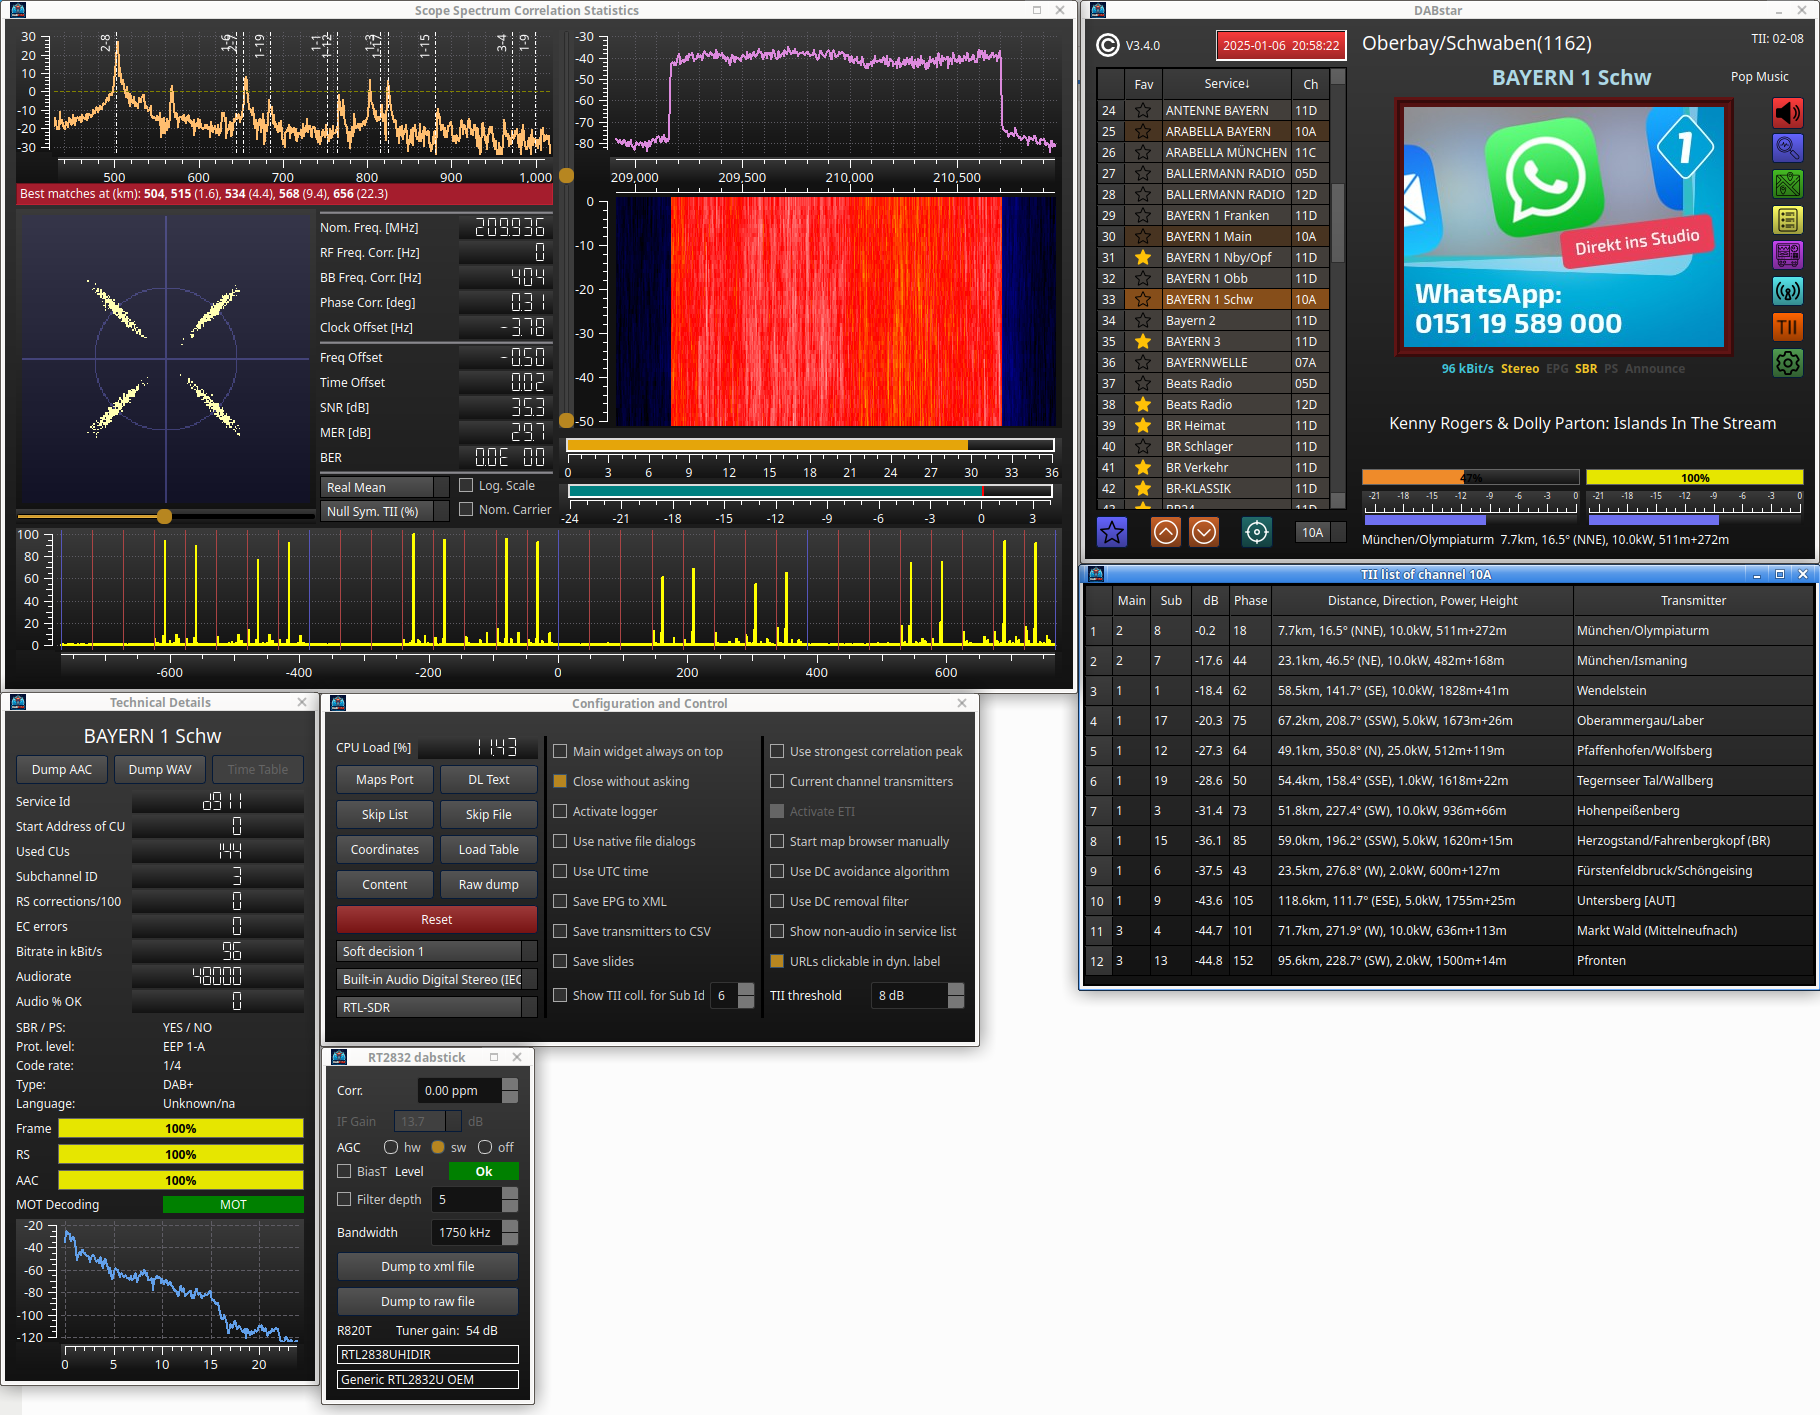
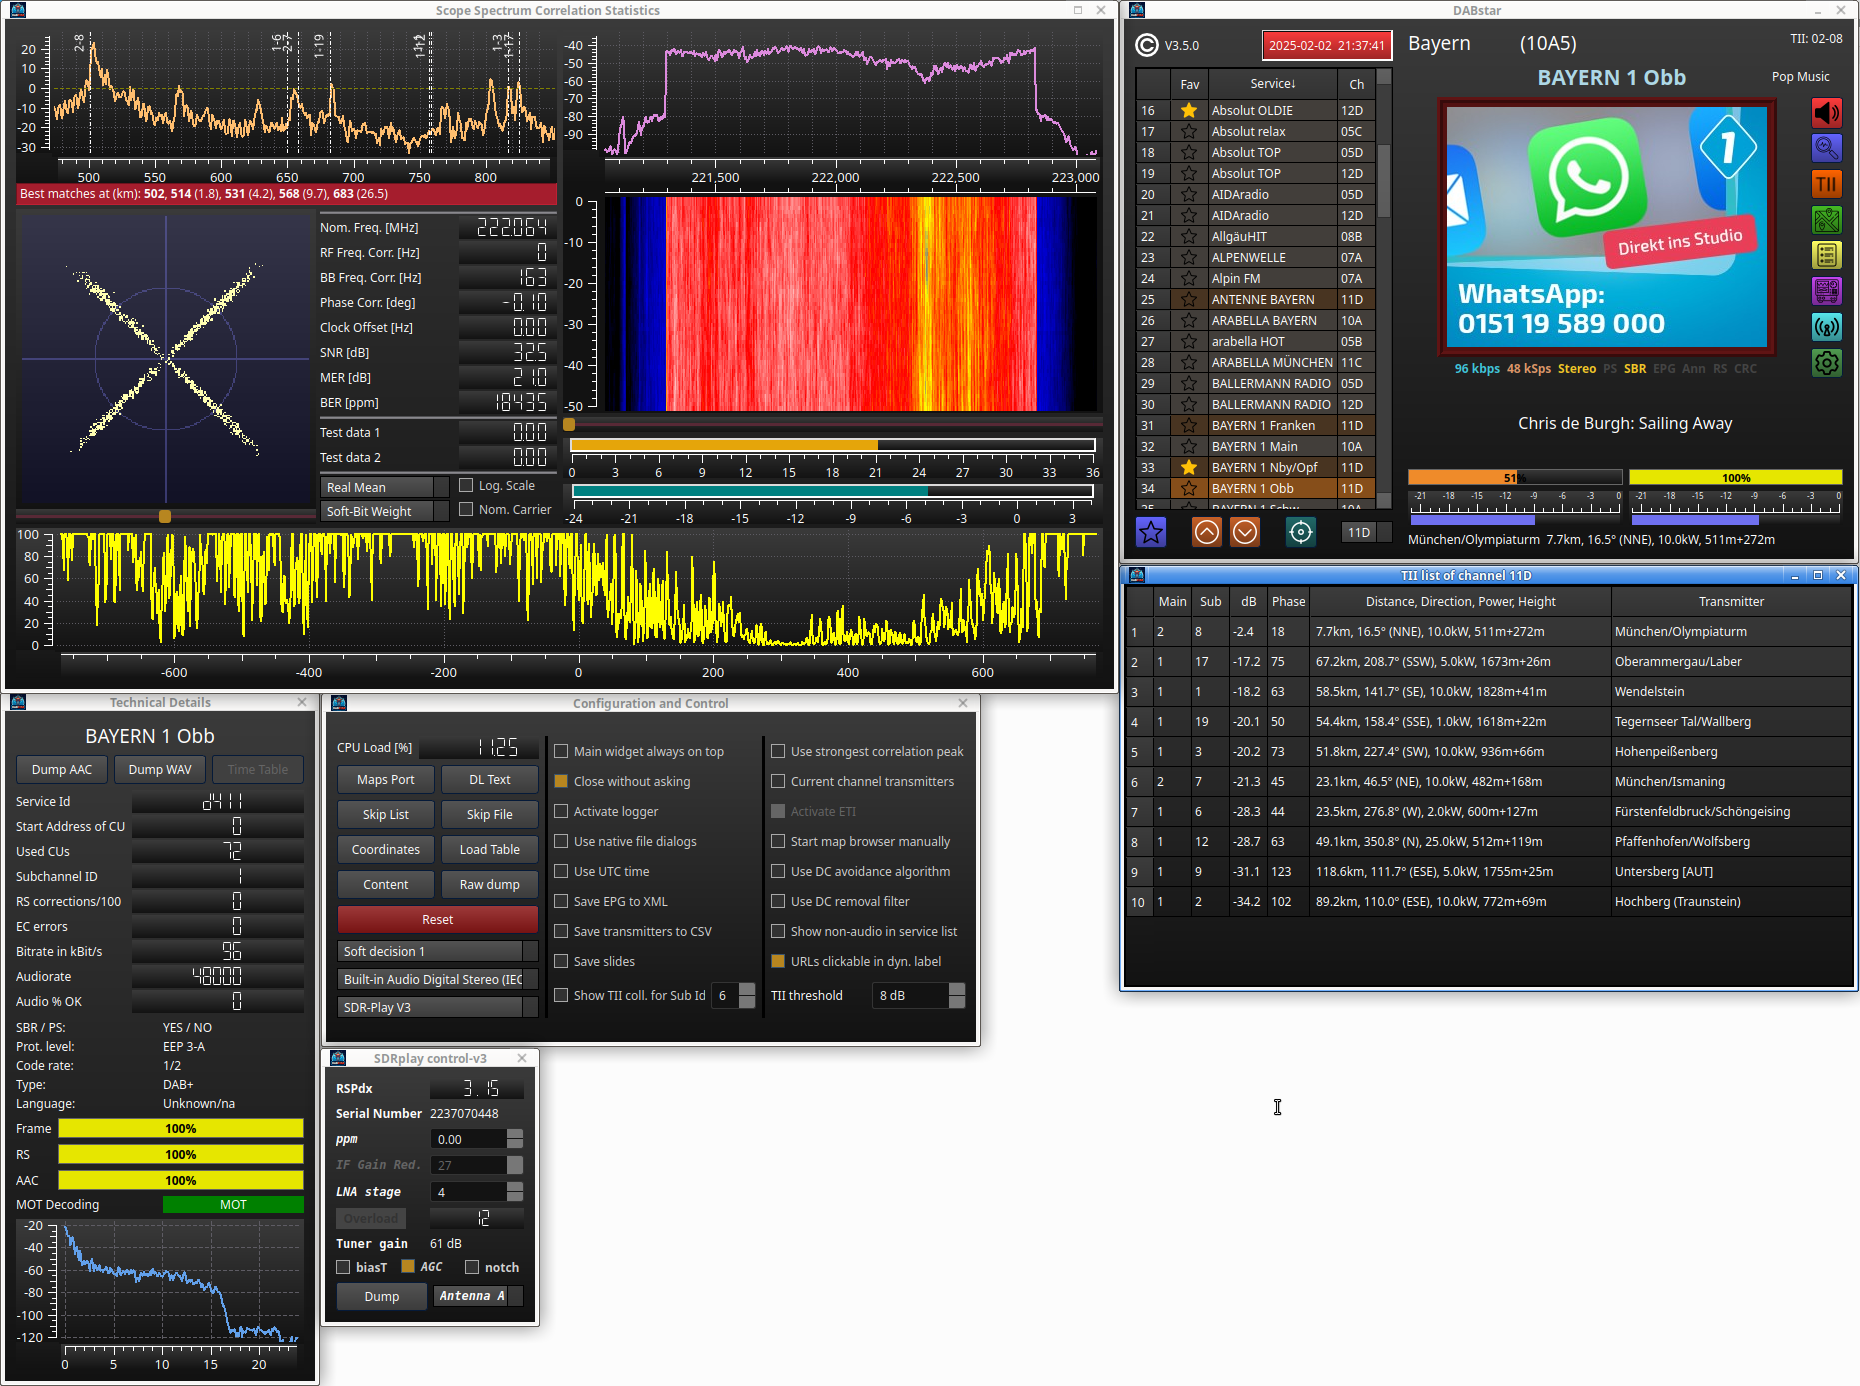
Update to version 3.5.0 with feature and documentation changes
- Updated version number from 3.4.0 to 3.5.0 in all relevant files.
- Replaced screenshot in README to reflect version 3.5.0.
- Added VOLK to acknowledgments section in README.
- Enabled SIMD optimization and increased build thread count to 6.

diff --git a/README.md b/README.md
@@ -2,7 +2,7 @@
 
 ---
 ![screenshot.png](res/for_readme/screenshot.png)
-(Picture from V3.4.0)
+(Picture from V3.5.0)
 
 ---
 
@@ -332,7 +332,7 @@ sudo ldconfig
 
 ## Licences
 
-Rights of Qt-DAB, AbracaDABra, Qt, Qwt, FFTW, FDK-AAC, libfaad, libsamplerate and libsndfile gratefully acknowledged.
+Rights of Qt-DAB, AbracaDABra, Qt, Qwt, FFTW, VOLK, FDK-AAC, libfaad, libsamplerate and libsndfile gratefully acknowledged.
 
 Rights of developers of RTLSDR library, SDRplay libraries, AIRspy library and others gratefully acknowledged.
 
